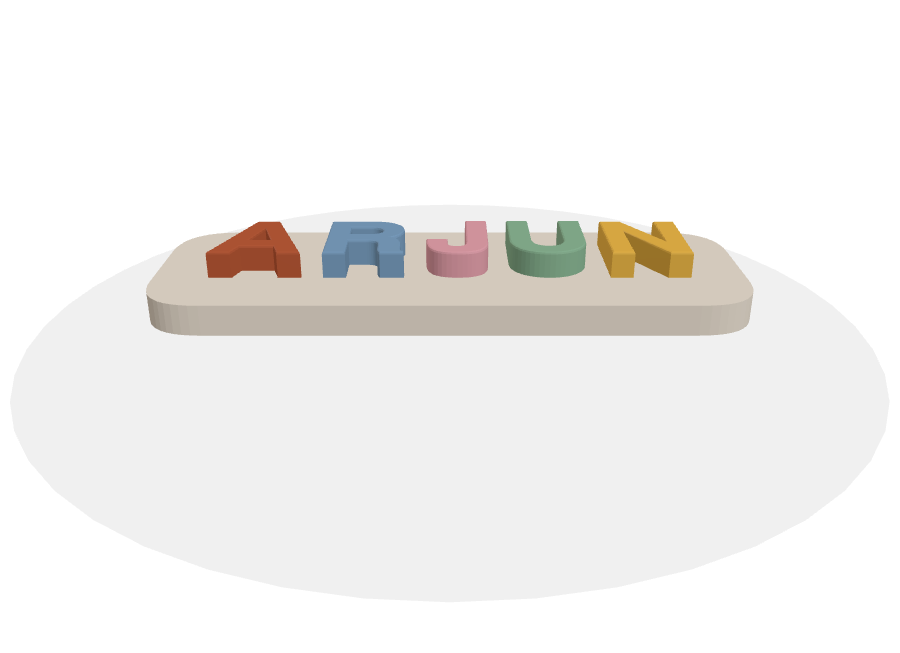
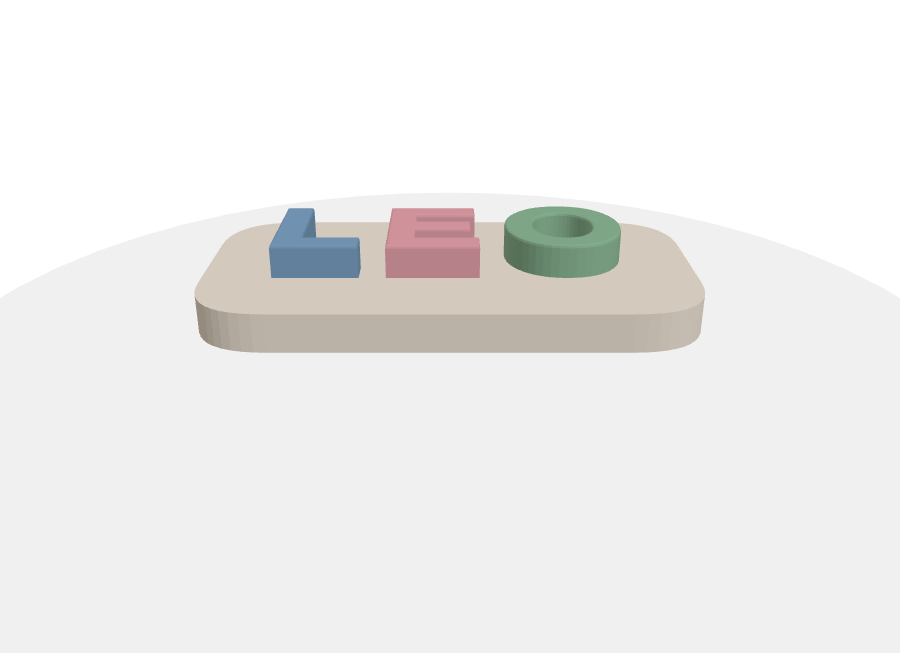
Replace hero render with neutral sample; purge leftover niche placeholder names

Changed region(s): [[0.1556, 0.3063, 0.84, 0.5513]]

diff --git a/index.html b/index.html
@@ -89,7 +89,7 @@
   <div class="hero-visual reveal">
     <!-- 우리 3D 에디터가 렌더링한 실제 제품 형상 (스톡 아님) — 실물 사진 나오면 교체 -->
     <img src="assets/hero-puzzle.png"
-         alt="ARJUN name puzzle designed in the Printelier live 3D studio" style="object-fit: contain; background: oklch(96% 0.012 75);" />
+         alt="A name puzzle designed in the Printelier live 3D studio" style="object-fit: contain; background: oklch(96% 0.012 75);" />
     <div class="hero-badge">
       <strong>Local pickup</strong>
       <span>Surrey &amp; Metro Vancouver</span>